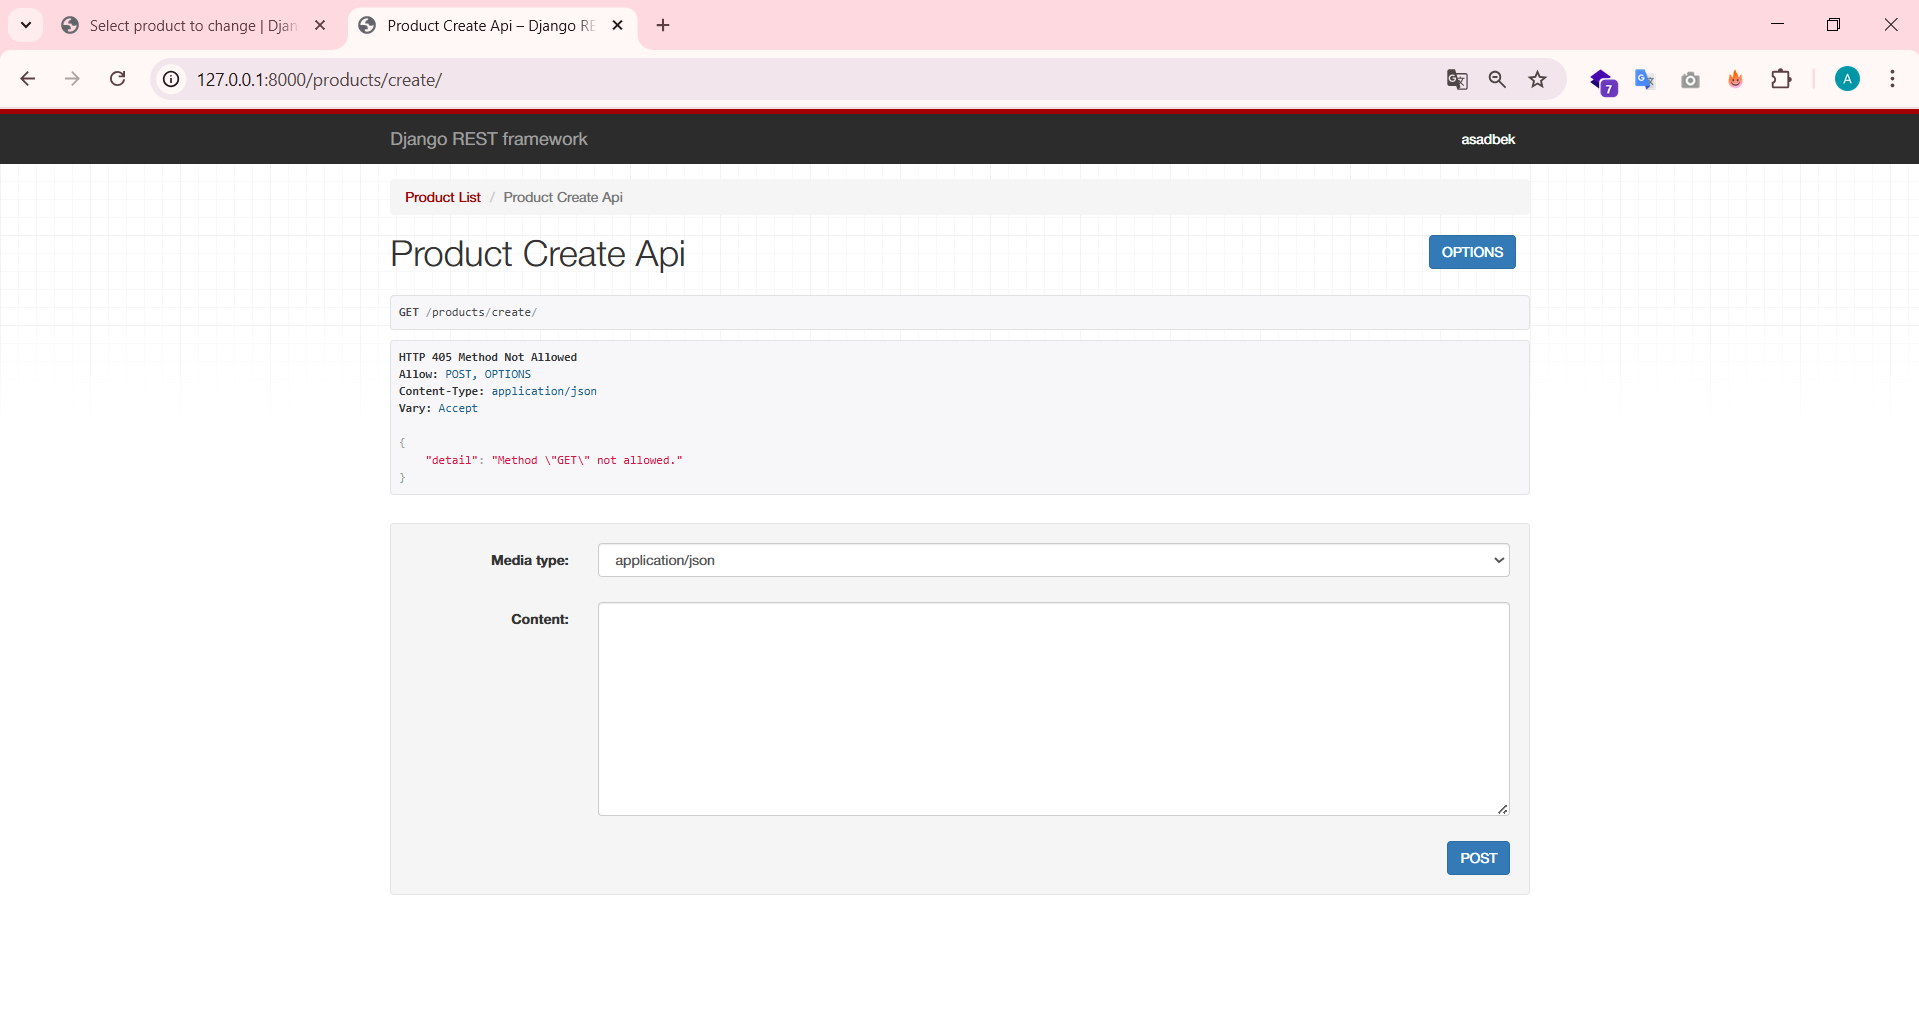
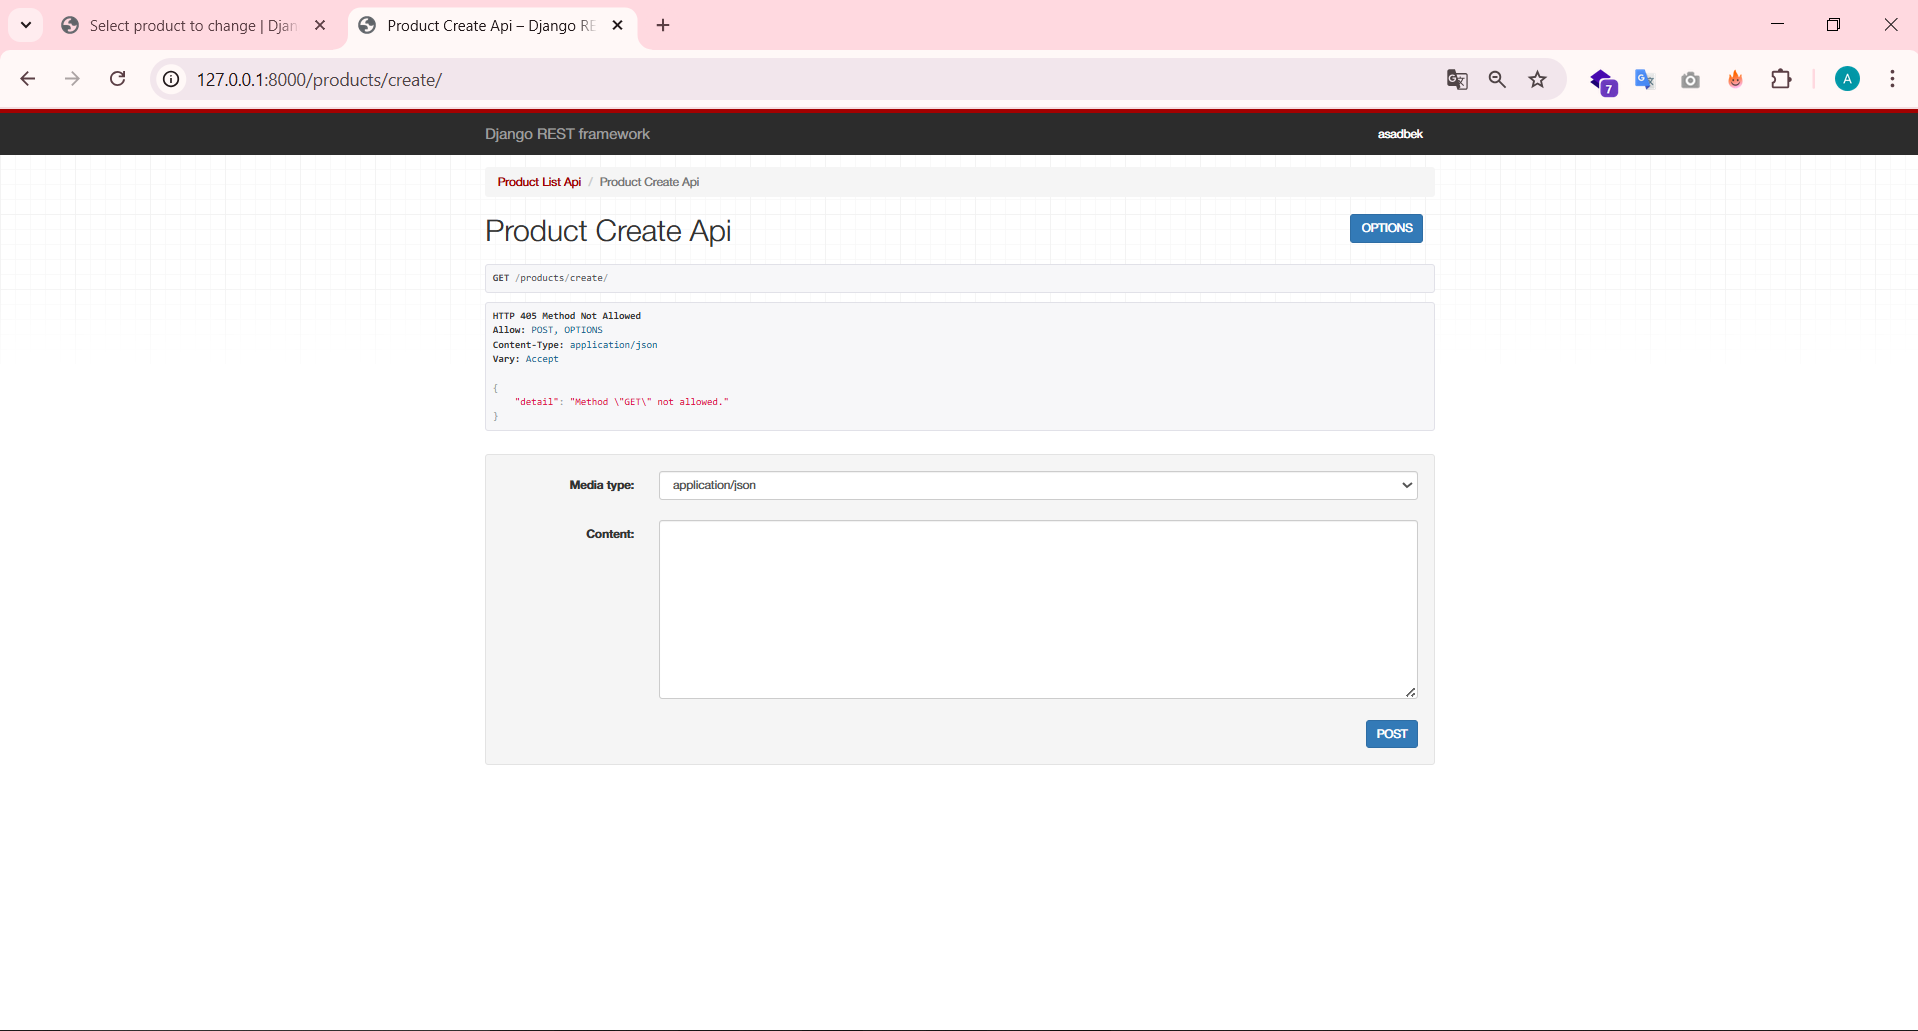
tugadie hammasi

diff --git a/product/views.py b/product/views.py
@@ -1,13 +1,32 @@
-from tkinter.ttk import Notebook
-from django.shortcuts import render,get_object_or_404
-from .models import PRODUCT
-from .serializers import ProductSerializer, ProductSerializer
-from rest_framework.generics import ListAPIView,DestroyAPIView
+from django.shortcuts import get_object_or_404
+from rest_framework.generics import RetrieveAPIView, DestroyAPIView, RetrieveUpdateAPIView
 from rest_framework.views import APIView
 from rest_framework.response import Response
+from .models import PRODUCT
+from .serializers import ProductSerializer
 
 
-class ProductListView(ListAPIView):
+class ProductListAPIView(APIView):
+    def get(self, request):
+        products = PRODUCT.objects.all()
+        serializer = ProductSerializer(products, many=True)
+        return Response(serializer.data)
+
+class ProductCreateAPIView(APIView):
+    def post(self, request):
+        serializer = ProductSerializer(data=request.data)
+        if serializer.is_valid():
+            serializer.save()
+            info = {
+                'holat': 'Mahsulot muvaffaqiyatli qoshildi',
+                'malumot': serializer.data
+            }
+            return Response(info)
+        return Response(serializer.errors)
+
+
+
+class ProductDetailView(RetrieveAPIView):
     queryset = PRODUCT.objects.all()
     serializer_class = ProductSerializer
 
@@ -16,28 +35,36 @@ class ProductDeleteView(DestroyAPIView):
     queryset = PRODUCT.objects.all()
     serializer_class = ProductSerializer
 
-
-class ProductCreateAPIView(APIView):
-    def post(self, request):
-        malumot = request.data
-        serializer = ProductSerializer(data=malumot)
-        if serializer.is_valid():
-            serializer.save()
-            info = {
-                'holat': 'Mahsulot muvaffaqiyatli qoshildi',
-                'ular': serializer.data  
-            }
-            return Response(info)
-        else:
-            return Response(serializer.errors)
-
-
-class ProductDetailAPIView(APIView):
     def get(self, request, pk):
         product = get_object_or_404(PRODUCT, pk=pk)
         serializer = ProductSerializer(product)
         return Response(serializer.data)
-    
+
+
+
+class ProductUpdateAPIView(APIView):
+
+    def get(self, request, pk):
+        product = get_object_or_404(PRODUCT, pk=pk)
+        serializer = ProductSerializer(product)
+        return Response(serializer.data)
+
+    def put(self, request, pk):
+        product = get_object_or_404(PRODUCT, pk=pk)
+        serializer = ProductSerializer(product, data=request.data)
+        if serializer.is_valid():
+            serializer.save()
+            return Response(serializer.data)
+        return Response({'status': 'serializer is not valid'})
+
+    def patch(self, request, pk):
+        product = get_object_or_404(PRODUCT, pk=pk)
+        serializer = ProductSerializer(product, data=request.data, partial=True)
+        if serializer.is_valid():
+            serializer.save()
+            return Response(serializer.data)
+        return Response({'status': 'serializer is not valid'})
+
 
 class ProductMixedAPIView(APIView):
     def get(self, request, pk):
@@ -54,7 +81,7 @@ class ProductMixedAPIView(APIView):
                 return Response(serializer.data)
             return Response({'status': 'serializer is not valid'})
         except PRODUCT.DoesNotExist:
-            return Response({'status': 'bunday id li PRODUCT mavjud emas'})
+            return Response({'status': 'bunday id li product mavjud emas'})
 
     def patch(self, request, pk):
         try:
@@ -65,36 +92,9 @@ class ProductMixedAPIView(APIView):
                 return Response(serializer.data)
             return Response({'status': 'serializer is not valid'})
         except PRODUCT.DoesNotExist:
-            return Response({'status': 'bunday id li PRODUCT mavjud emas'})
+            return Response({'status': 'bunday id li product mavjud emas'})
 
     def delete(self, request, pk):
         product = get_object_or_404(PRODUCT, pk=pk)
         product.delete()
-        return Response({'status': 'PRODUCT deleted successfully'})
-
-
-class ProductUpdateAPIView(APIView):
-    def put(self,request,pk):
-        try:
-            product=PRODUCT.objects.get(pk=pk)
-            serializer=ProductSerializer(product,data=request.data)
-            if serializer.is_valid():
-                serializer.save()
-                return Response(serializer.data)
-            else:
-                return Response({'status':'serializer is not available'})
-        except:
-            return Response({'status':'bunday id li contact mavjud emas'})
-
-
-    def patch(self,request,pk):
-        try:
-            product=PRODUCT.objects.get(pk=pk)
-            serializer=ProductSerializer(product, data=request.data,partial=True)
-            if serializer.is_valid():
-                serializer.save()
-                return Response(serializer.data)    
-            else:
-                return Response({'status':'serializer is not available'})
-        except:
-            return Response({'status':'bunday id li contact mavjud emas'})
+        return Response({'status': 'product deleted successfully'})

diff --git a/product/urls.py b/product/urls.py
@@ -1,11 +1,11 @@
 from django.urls import path
-from .views import ProductListView, ProductCreateAPIView, ProductDeleteView, ProductDetailAPIView, ProductMixedAPIView, ProductUpdateAPIView
+from .views import ProductListAPIView, ProductCreateAPIView, ProductDetailView, ProductDeleteView, ProductMixedAPIView, ProductUpdateAPIView
+
 urlpatterns = [
-    path('products/', ProductListView.as_view()),   
-    path('products/create/', ProductCreateAPIView.as_view()),
-    path('products/delete/<int:pk>/', ProductDeleteView.as_view()),
-    path('products/detail/<int:pk>/', ProductDetailAPIView.as_view()),
-    path('products/mixed/', ProductMixedAPIView.as_view()),
-    path('products/mixed/<int:pk>/', ProductMixedAPIView.as_view()),
-    path('products/update/<int:pk>/', ProductUpdateAPIView.as_view()),
+    path('products/', ProductListAPIView.as_view(), name='product_list'),
+    path('products/create/', ProductCreateAPIView.as_view(), name='product_create'),
+    path('products/detail/<int:pk>/', ProductDetailView.as_view(), name='product_detail'),
+    path('products/delete/<int:pk>/', ProductDeleteView.as_view(), name='product_delete'),
+    path('products/update/<int:pk>/', ProductUpdateAPIView.as_view(), name='product_update'),
+    path('products/mixed/<int:pk>/', ProductMixedAPIView.as_view(), name='product_mixed'),
 ]
